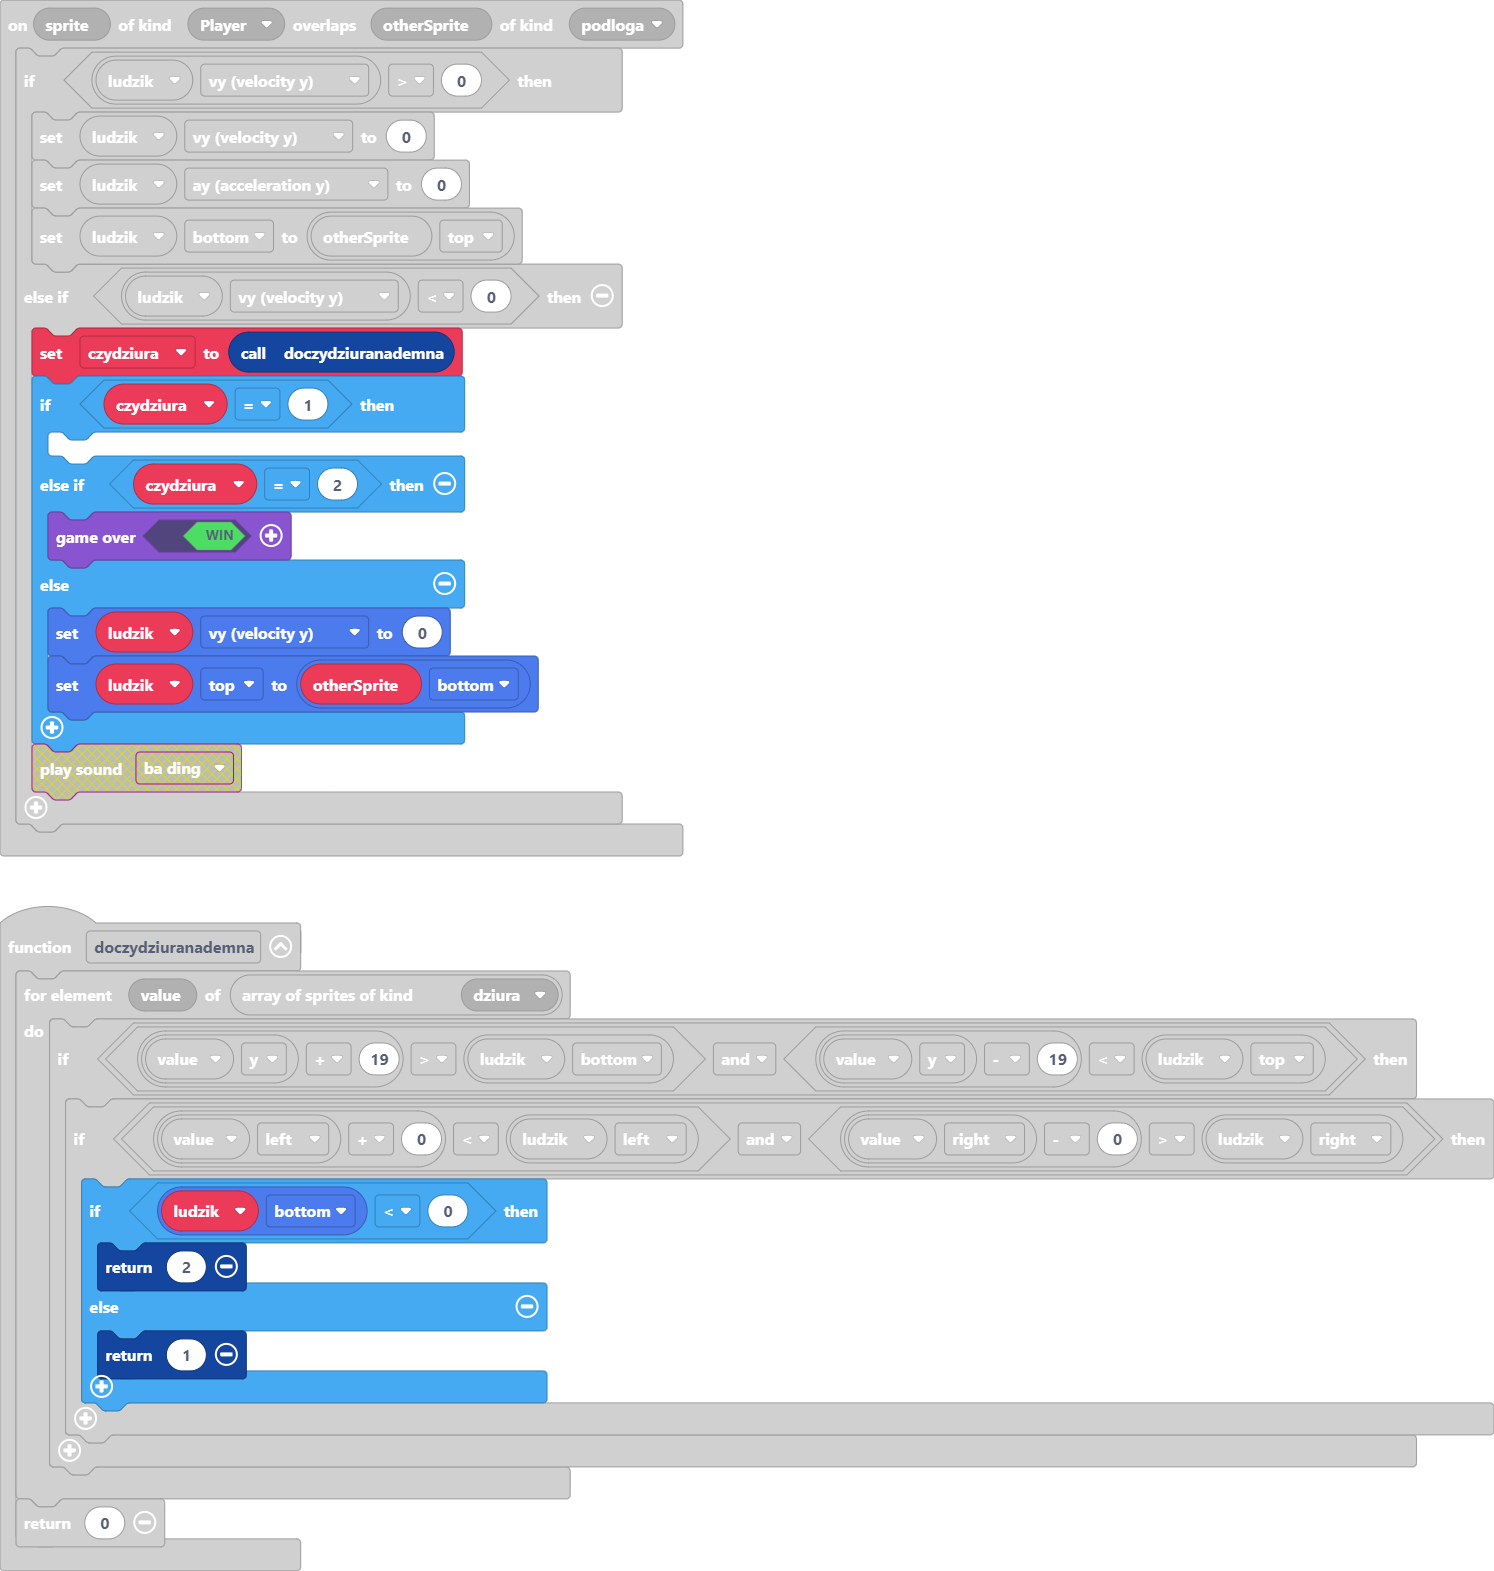
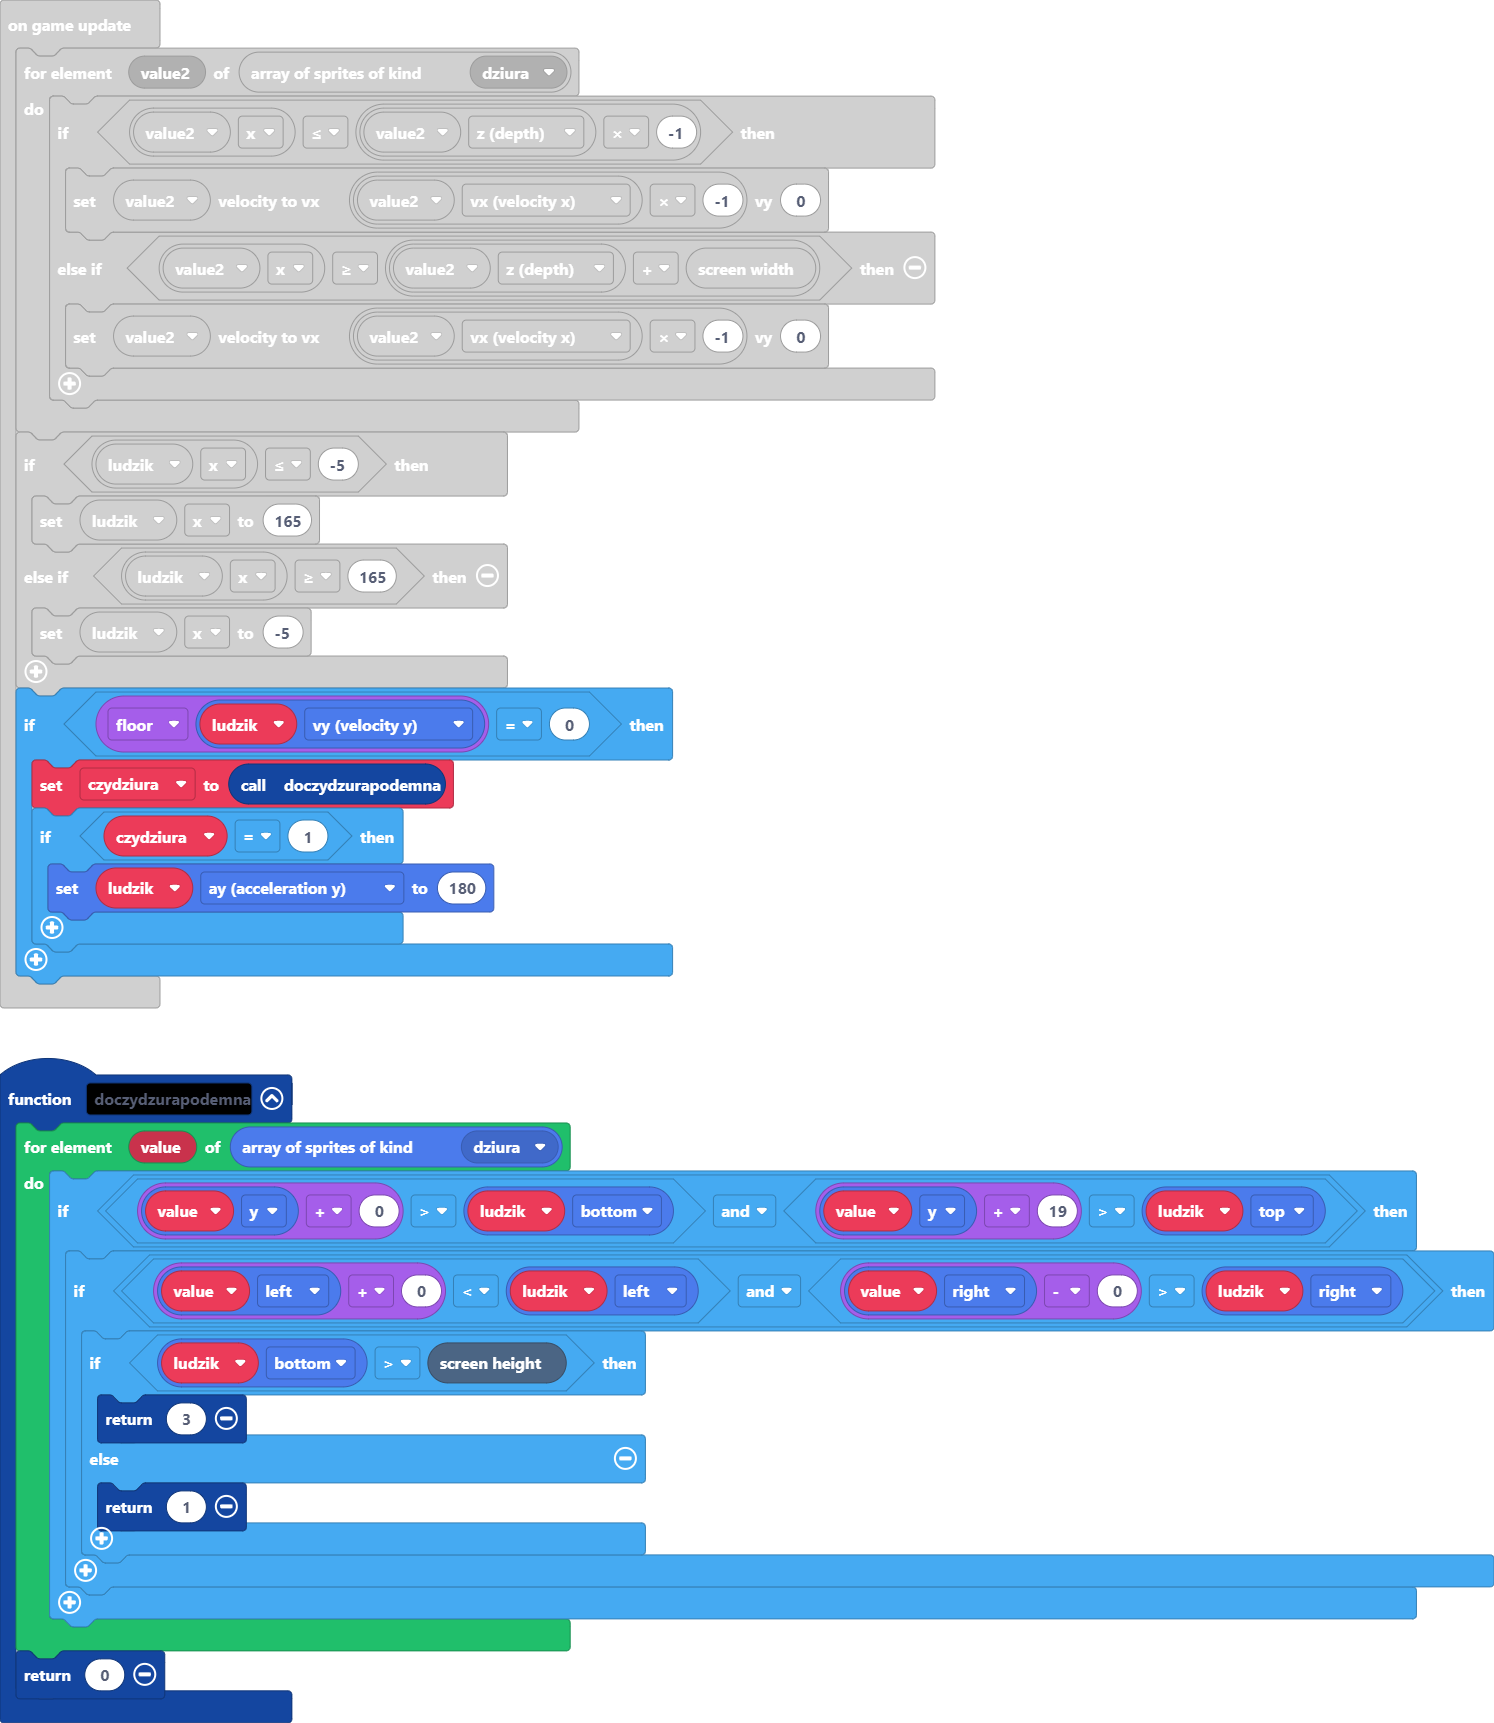
Update main.blocks, main.ts

diff --git a/main.ts b/main.ts
@@ -39,6 +39,20 @@ function doczydziuranademna () {
     }
     return 0
 }
+function doczydzurapodemna () {
+    for (let value of sprites.allOfKind(SpriteKind.dziura)) {
+        if (value.y + 0 > ludzik.bottom && value.y + 19 > ludzik.top) {
+            if (value.left + 0 < ludzik.left && value.right - 0 > ludzik.right) {
+                if (ludzik.bottom > scene.screenHeight()) {
+                    return 3
+                } else {
+                    return 1
+                }
+            }
+        }
+    }
+    return 0
+}
 function doGenerujpodloge (y: number) {
     podloga2 = sprites.create(img`
         eeeeeeeeeeeeeeeeeeeeeeeeeeeeeeeeeeeeeeeeeeeeeeeeeeeeeeeeeeeeeeeeeeeeeeeeeeeeeeeeeeeeeeeeeeeeeeeeeeeeeeeeeeeeeeeeeeeeeeeeeeeeeeeeeeeeeeeeeeeeeeeeeeeeeeeeeeeeeeee
@@ -148,5 +162,11 @@ game.onUpdate(function () {
         ludzik.x = 165
     } else if (ludzik.x >= 165) {
         ludzik.x = -5
+    }
+    if (Math.floor(ludzik.vy) == 0) {
+        czydziura = doczydzurapodemna()
+        if (czydziura == 1) {
+            ludzik.ay = 180
+        }
     }
 })
